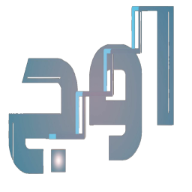
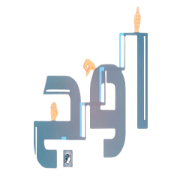
fix project

diff --git a/app/page.js b/app/page.js
@@ -1,10 +1,10 @@
-'use client';
+"use client";
 
-import { useState, useEffect } from 'react';
-import { Button } from '@/components/ui/button';
+import { useState, useEffect } from "react";
+import { Button } from "@/components/ui/button";
 import Link from "next/link";
-import { ArrowRight, Sparkles,Bot,Box,GraduationCap } from 'lucide-react';
-import Image from 'next/image';
+import { ArrowRight, Sparkles, Bot, Box, GraduationCap } from "lucide-react";
+import Image from "next/image";
 
 export default function LandingPage() {
   const [isScrolled, setIsScrolled] = useState(false);
@@ -13,8 +13,8 @@ export default function LandingPage() {
     const handleScroll = () => {
       setIsScrolled(window.scrollY > 10);
     };
-    window.addEventListener('scroll', handleScroll);
-    return () => window.removeEventListener('scroll', handleScroll);
+    window.addEventListener("scroll", handleScroll);
+    return () => window.removeEventListener("scroll", handleScroll);
   }, []);
 
   return (
@@ -23,8 +23,8 @@ export default function LandingPage() {
       <header
         className={`fixed w-full top-0 z-50 transition-all duration-300 ${
           isScrolled
-            ? 'bg-white/95 backdrop-blur-md shadow-lg'
-            : 'bg-transparent'
+            ? "bg-white/95 backdrop-blur-md shadow-lg"
+            : "bg-transparent"
         }`}
       >
         <nav className="max-w-7xl mx-auto px-4 sm:px-6 lg:px-8 h-20 flex items-center justify-between">
@@ -35,16 +35,15 @@ export default function LandingPage() {
             </div>
             <div>
               <h1 className="text-2xl font-bold bg-gradient-to-r from-blue-600 to-cyan-500 bg-clip-text text-transparent">
-                أوج
+                اوج
               </h1>
               <p className="text-xs text-cyan-600 font-medium">
-                لغة بلا حدود
+                تواصلٌ.. بلا حواجز
               </p>
             </div>
           </div>
 
           {/* زر الدخول */}
-         
         </nav>
       </header>
 
@@ -74,34 +73,38 @@ export default function LandingPage() {
               <div className="space-y-4">
                 <h1 className="text-5xl md:text-6xl lg:text-7xl font-bold leading-tight animate-fade-in-up">
                   <span className="bg-gradient-to-r from-blue-900 via-blue-600 to-cyan-500 bg-clip-text text-transparent">
-                    أوج
+                    اوج
                   </span>
                   <br />
-                  <span className="text-gray-800">لغة بلا حدود</span>
+                  <span className="text-gray-800">تواصلٌ.. بلا حواجز</span>
                 </h1>
 
                 {/* الوصف */}
                 <p className="text-xl md:text-2xl text-gray-700 leading-relaxed animate-fade-in-up animation-delay-200">
-                  تعليم معزز بالذكاء الاصطناعي وتقنيات ثلاثية الأبعاد لترجمة
+                  لأن الوصول للقمة يبدأ بفهم الآخر، نُقدم لكم موقع "اوج" الذي
+                  يُسخر تقنيات الذكاء الاصطناعي والأفاتار ثلاثي الأبعاد لترجمة
                   <span className="font-bold text-cyan-600"> لغة الإشارة </span>
-                  بطريقة احترافية وسهلة
                 </p>
               </div>
 
               {/* وصف إضافي */}
               <p className="text-lg text-gray-600 animate-fade-in-up animation-delay-300">
-                منصة تعليمية ذكية تربط بين الصم والبكم والسامعين من خلال ترجمة فورية ودقيقة لـ<span className="font-semibold text-blue-600"> لغة الإشارة</span>
+                هدفنا كسر العزلة وجعل التواصل أكثر سهولة، دقة، وانسيابية.. ليكون
+                الحوار حقًا .
+                <span className="font-semibold text-blue-600">
+                  {" "}
+                  متاحاً للجميع
+                </span>
               </p>
 
               {/* زر البداية */}
               <div className="flex flex-col sm:flex-row items-center gap-4 pt-4 animate-fade-in-up animation-delay-400">
                 <Link href="/home">
-                <Button className="bg-gradient-to-r from-blue-600 to-cyan-500 hover:from-blue-700 hover:to-cyan-600 text-white font-bold px-10 py-6 text-lg rounded-full shadow-xl hover:shadow-2xl transition-all duration-300 transform hover:scale-105 cursor-pointer w-full sm:w-auto">
-                  ابدأ الآن 
-                  <ArrowRight className="w-5 h-5 ml-2" />
-                </Button>
+                  <Button className="bg-gradient-to-r from-blue-600 to-cyan-500 hover:from-blue-700 hover:to-cyan-600 text-white font-bold px-10 py-6 text-lg rounded-full shadow-xl hover:shadow-2xl transition-all duration-300 transform hover:scale-105 cursor-pointer w-full sm:w-auto">
+                    ابدأ الآن
+                    <ArrowRight className="w-5 h-5 ml-2" />
+                  </Button>
                 </Link>
-
               </div>
             </div>
 
@@ -116,11 +119,15 @@ export default function LandingPage() {
                 <div className="absolute inset-12 bg-gradient-to-br from-blue-500 via-cyan-400 to-purple-500 rounded-full shadow-2xl animate-float flex items-center justify-center overflow-hidden">
                   {/* عناصر داخل الكرة */}
                   <div className="absolute w-32 h-32 bg-white/20 rounded-full blur-xl animate-pulse"></div>
-                  
+
                   {/* أيقونة وسط */}
                   <div className="relative z-10 text-center">
-                    <div className="text-6xl mb-2"><img src="/logo.png" width="200px" /></div>
-                    <p className="text-white font-bold text-sm">اتصال بدون حدود</p>
+                    <div className="text-6xl mb-2">
+                      <img src="/logo.png" width="200px" />
+                    </div>
+                    <p className="text-white font-bold text-sm">
+                      تواصلٌ.. بلا حواجز
+                    </p>
                   </div>
                 </div>
 

diff --git a/components/footer.js b/components/footer.js
@@ -1,17 +1,13 @@
-'use client';
+"use client";
 
 export default function Footer() {
-
   return (
-    <div >
-      
+    <div>
       {/* ===== Footer ===== */}
       <footer className="bg-gradient-to-r from-gray-900 via-blue-900 to-cyan-900 text-white py-12 px-4 sm:px-6 lg:px-8">
         <div className="max-w-7xl mx-auto">
-          
           {/* المحتوى الرئيسي للفوتر */}
           <div className="grid md:grid-cols-3 gap-8 mb-8">
-            
             {/* القسم الأول - الشعار والوصف */}
             <div className="flex flex-col gap-4">
               <div className="flex items-center gap-3">
@@ -19,18 +15,16 @@ export default function Footer() {
                   <span className="text-gray-900 font-bold text-lg">أ</span>
                 </div>
                 <h2 className="text-xl font-bold bg-gradient-to-r from-blue-300 to-cyan-300 bg-clip-text text-transparent">
-                  أوج
+                  اوج
                 </h2>
               </div>
               <p className="text-gray-300 text-sm leading-relaxed">
-                منصة تعليمية ذكية لترجمة لغة الإشارة باستخدام تقنيات الذكاء الاصطناعي والواقع الافتراضي
+                منصة تعليمية ذكية لترجمة لغة الإشارة باستخدام تقنيات الذكاء
+                الاصطناعي والواقع الافتراضي
               </p>
             </div>
 
-            
-
             {/* القسم الثالث - وسائل التواصل */}
-            
           </div>
 
           {/* فاصل */}
@@ -39,10 +33,12 @@ export default function Footer() {
           {/* حقوق الطبع والنشر */}
           <div className="flex flex-col md:flex-row items-center justify-between text-center md:text-right text-sm text-gray-400">
             <p className="mb-4 md:mb-0">
-              © 2026 <span className="font-bold text-cyan-300">أوج</span> - جميع الحقوق محفوظة
+              © 2026 <span className="font-bold text-cyan-300">اوج</span> - جميع
+              الحقوق محفوظة
             </p>
             <p>
-              تم التطوير بـ ❤ من قبل فريق <span className="font-semibold text-blue-300">أوج</span>
+              تم التطوير بـ ❤ من قبل فريق{" "}
+              <span className="font-semibold text-blue-300">اوج</span>
             </p>
           </div>
 

diff --git a/components/header.js b/components/header.js
@@ -6,7 +6,7 @@ import { ArrowRight, Sparkles, LogOut } from "lucide-react";
 import Image from "next/image";
 import Link from "next/link";
 
-export default function Header({title, description}) {
+export default function Header({ title, description }) {
   const [isScrolled, setIsScrolled] = useState(false);
 
   useEffect(() => {
@@ -16,8 +16,6 @@ export default function Header({title, description}) {
     window.addEventListener("scroll", handleScroll);
     return () => window.removeEventListener("scroll", handleScroll);
   }, []);
-
-  
 
   return (
     <div>
@@ -37,29 +35,27 @@ export default function Header({title, description}) {
             </div>
             <div>
               <h1 className="text-2xl font-bold bg-gradient-to-r from-blue-600 to-cyan-500 bg-clip-text text-transparent">
-                أوج
+                اوج
               </h1>
-              <p className="text-xs text-cyan-600 font-medium">لغة بلا حدود</p>
+              <p className="text-xs text-cyan-600 font-medium">
+                تواصلٌ.. بلا حواجز
+              </p>
             </div>
-            
           </div>
- <div className="text-center">
+          <div className="text-center">
             <h1 className="text-xl  md:text-3xl font-bold bg-gradient-to-r from-indigo-600 via-purple-600 to-pink-600 bg-clip-text text-transparent mb-2">
-               {title}
+              {title}
             </h1>
             <p className="text-gray-600 text-sm sm:text-base"> {description}</p>
           </div>
 
           {/* زر الخروج */}
           <Link href="/home">
-          <Button
-            
-            className="bg-gradient-to-r from-red-500 to-pink-500 hover:from-red-600 hover:to-pink-600 text-white font-semibold px-6 py-2 rounded-full shadow-lg hover:shadow-xl transition-all duration-300 transform hover:scale-105 flex items-center gap-2"
-          >
-            <LogOut className="w-4 h-4" />
-            خروج
-          </Button>
-            </Link>
+            <Button className="bg-gradient-to-r from-red-500 to-pink-500 hover:from-red-600 hover:to-pink-600 text-white font-semibold px-6 py-2 rounded-full shadow-lg hover:shadow-xl transition-all duration-300 transform hover:scale-105 flex items-center gap-2">
+              <LogOut className="w-4 h-4" />
+              خروج
+            </Button>
+          </Link>
         </nav>
       </header>
     </div>

diff --git a/app/layout.js b/app/layout.js
@@ -1,35 +1,34 @@
 import "./globals.css";
- import { ThemeProvider } from "@/components/theme-provider";
+import { ThemeProvider } from "@/components/theme-provider";
 import { Analytics } from "@vercel/analytics/next";
 
-
 export const metadata = {
-  title:" أوج ",
+  title: " اوج ",
   description:
-    "أوج هي لغة برمجة جديدة تهدف إلى تبسيط عملية تطوير البرمجيات وجعلها أكثر متعة وإنتاجية. تم تصميم أوج لتكون سهلة التعلم والاستخدام، مع التركيز على توفير تجربة تطوير سلسة وممتعة للمبرمجين من جميع المستويات.",
-    icons: {
+    "اوج هي لغة برمجة جديدة تهدف إلى تبسيط عملية تطوير البرمجيات وجعلها أكثر متعة وإنتاجية. تم تصميم اوج لتكون سهلة التعلم والاستخدام، مع التركيز على توفير تجربة تطوير سلسة وممتعة للمبرمجين من جميع المستويات.",
+  icons: {
     icon: [
       { url: "/favicon.ico" },
       {
-        url: '/favicon-32x32.png',
-        sizes: '32x32',
-        type: 'image/png',
+        url: "/favicon-32x32.png",
+        sizes: "32x32",
+        type: "image/png",
       },
       {
-        url: '/favicon-16x16.png',
-        sizes: '16x16',
-        type: 'image/png',
+        url: "/favicon-16x16.png",
+        sizes: "16x16",
+        type: "image/png",
       },
     ],
     apple: [
       {
-        url: '/apple-touch-icon.png',
-        sizes: '180x180',
+        url: "/apple-touch-icon.png",
+        sizes: "180x180",
       },
     ],
   },
 
-  manifest: '/site.webmanifest',
+  manifest: "/site.webmanifest",
 };
 
 export default function RootLayout({ children }) {
